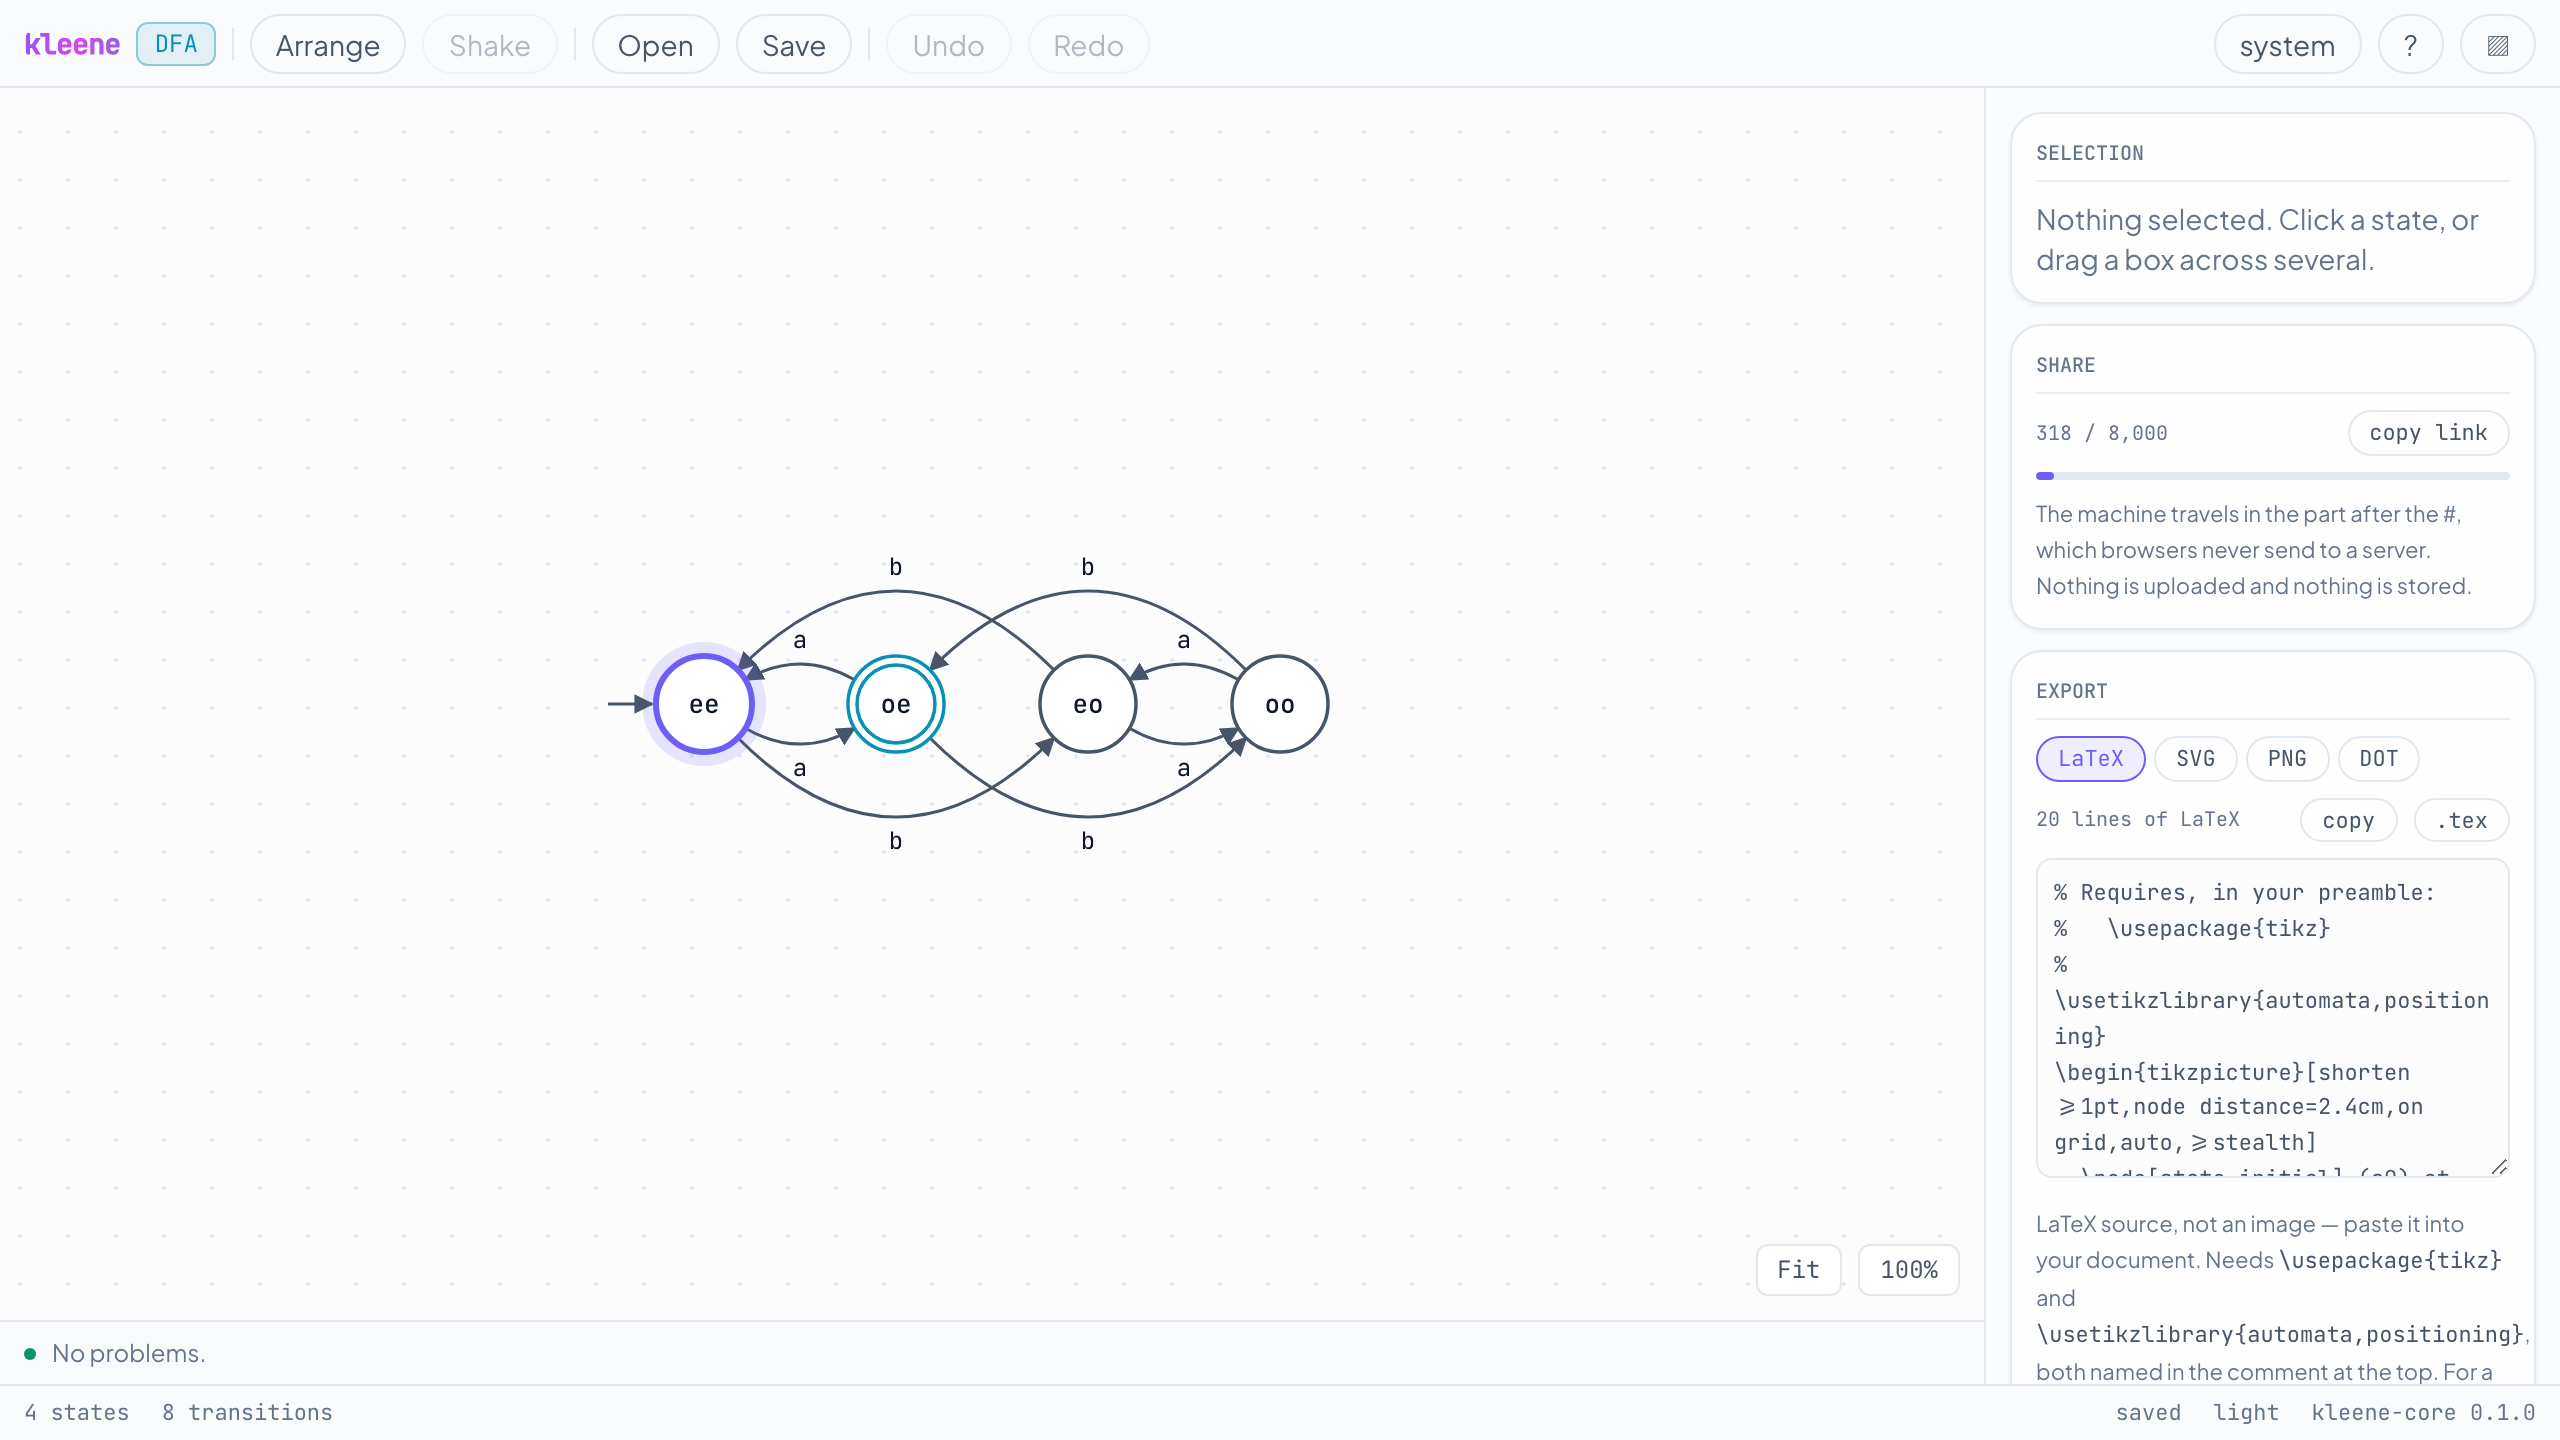
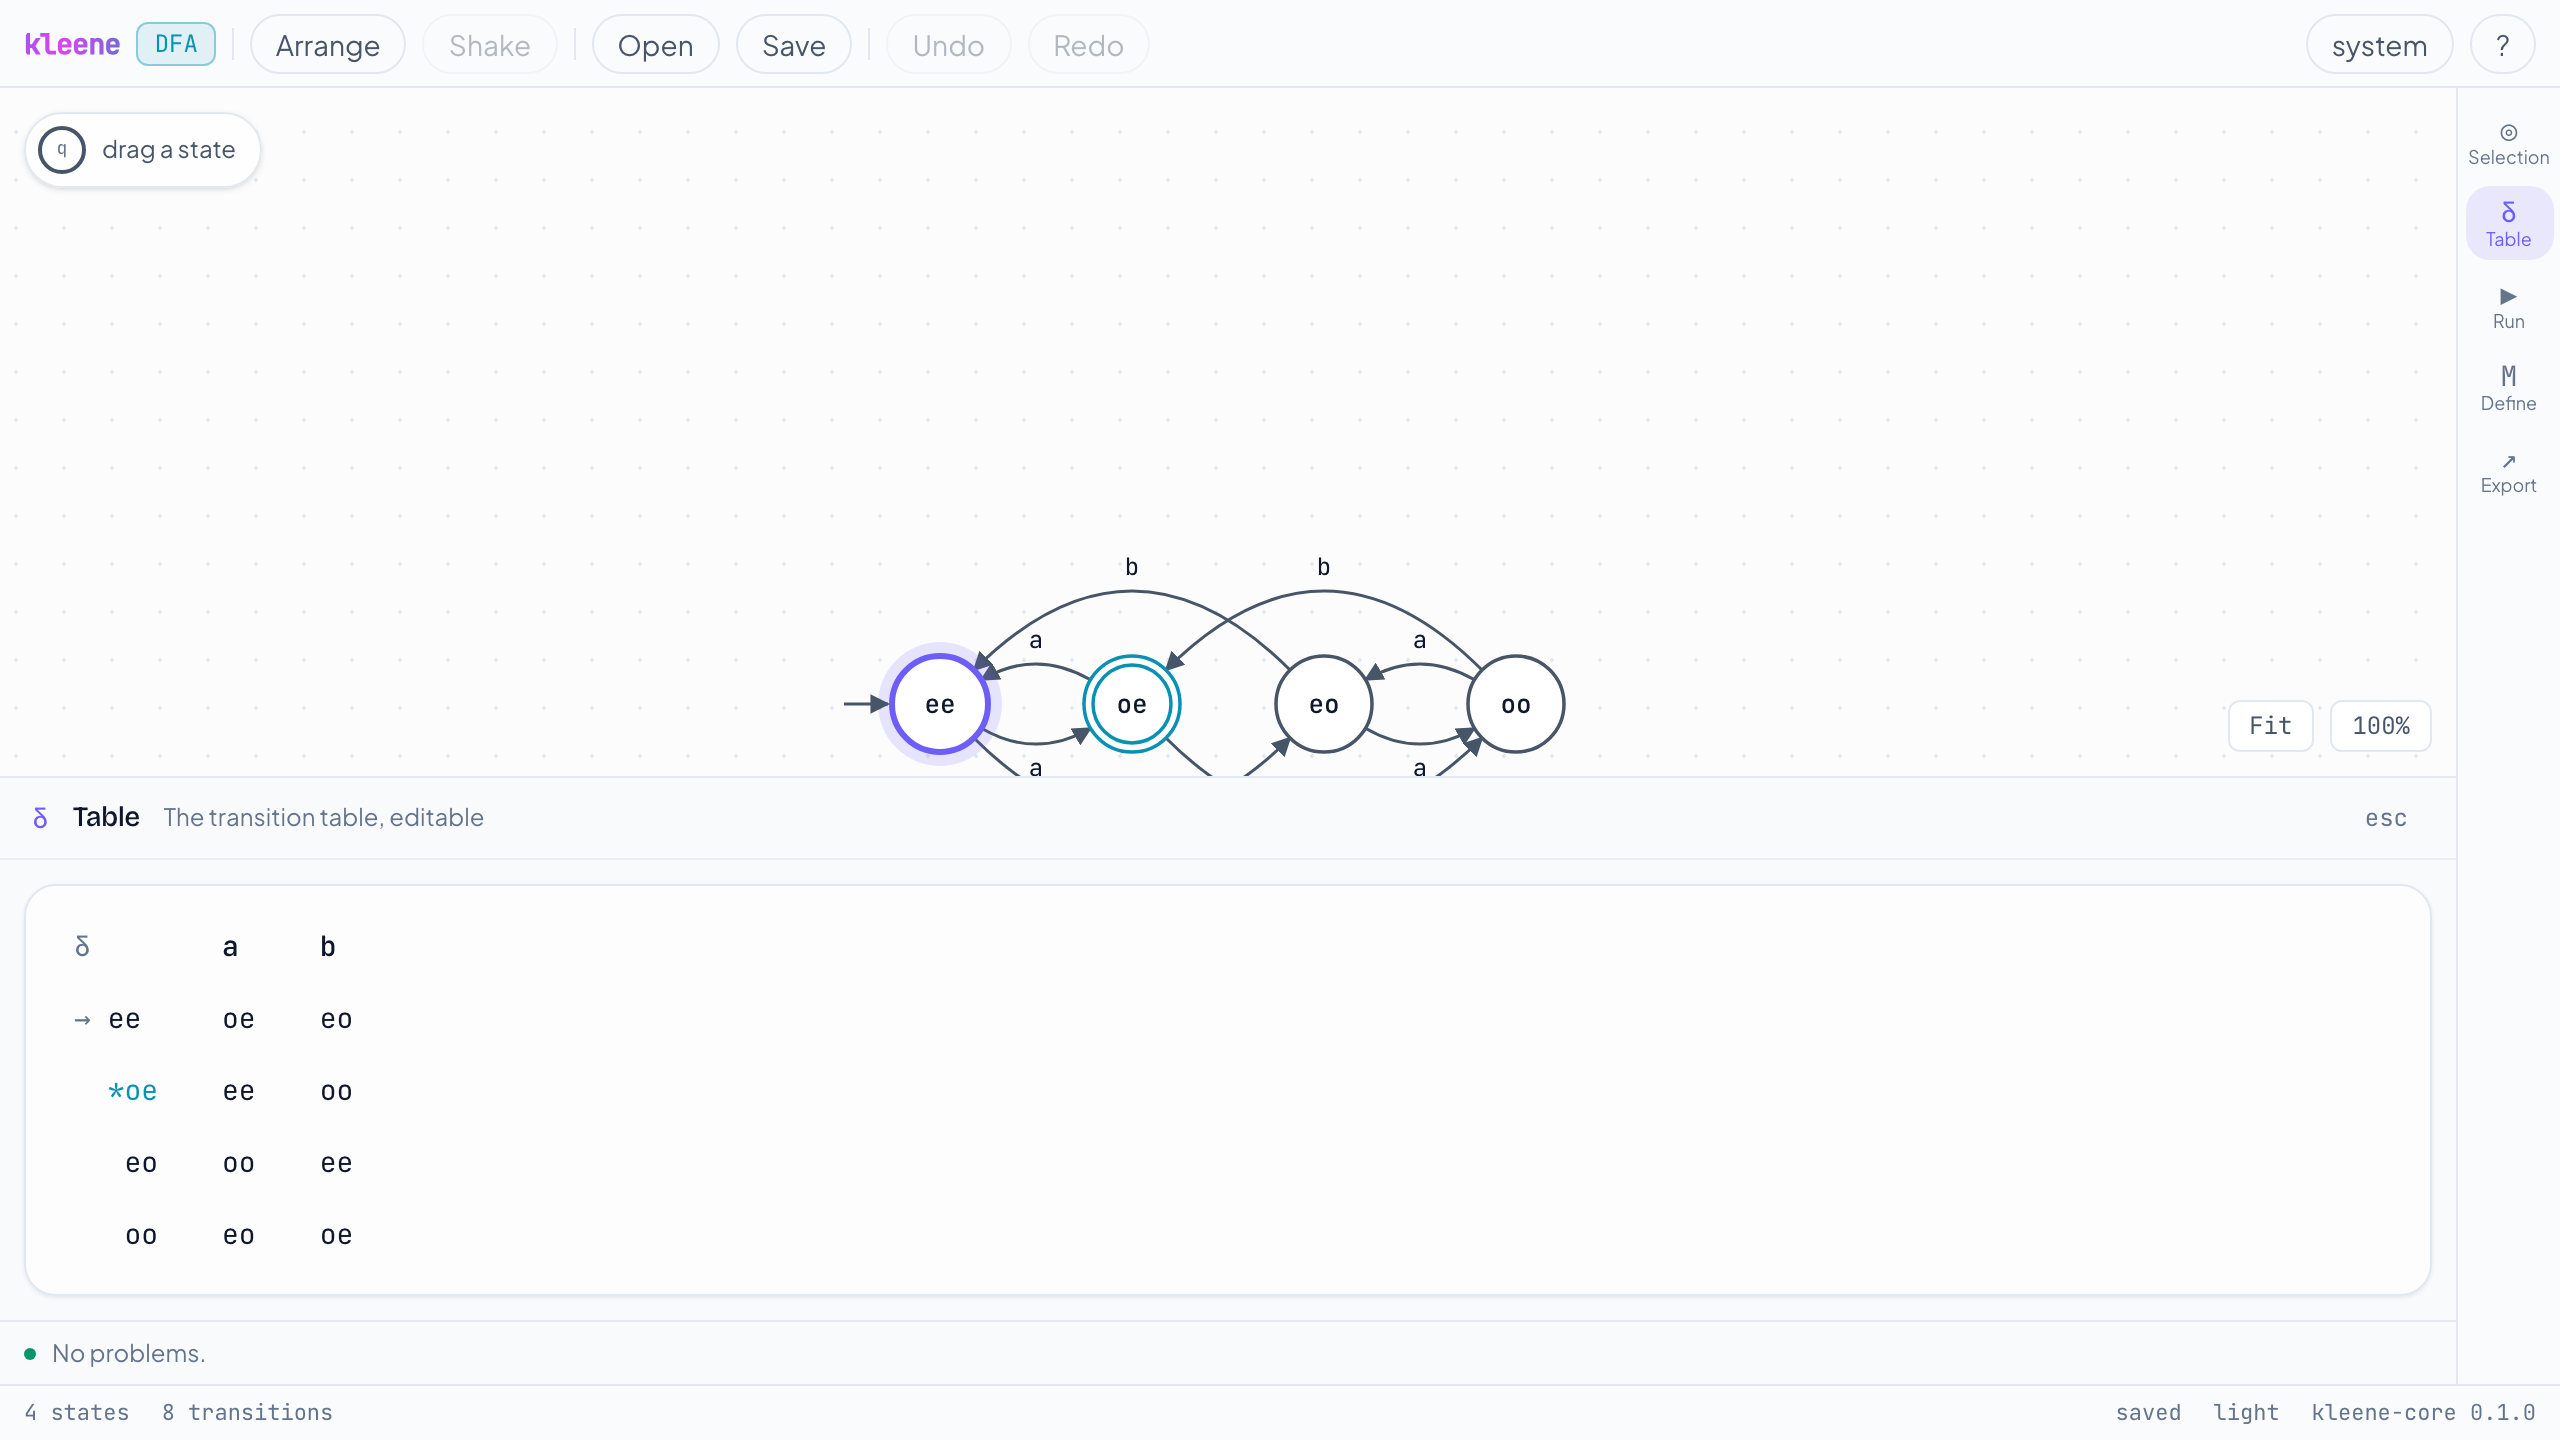
Reshoot the editor, now that it looks different
The README's editor screenshot showed the panel column this change
removed — which is the failure the script was written to prevent, so it was
one command away from being fixed.

Shot with the transition table open rather than on a bare canvas. The
editor's argument is that the canvas keeps the room and the panels arrive
when they are asked for, and a picture of an empty canvas can only make
half of that.

diff --git a/README.md b/README.md
@@ -35,7 +35,7 @@ underneath says what the round just did and why. Every one of those sentences wa
 Rust, beside the line of the algorithm that produced it.
 
 <p align="center">
-  <img src="docs/media/editor.png" alt="The Kleene editor: a four-state DFA on a canvas, with the share and TikZ export panels open beside it" width="720">
+  <img src="docs/media/editor.png" alt="The Kleene editor: a four-state DFA on a full-width canvas, with the transition table open along the bottom edge" width="720">
 </p>
 
 See the [phase plans](docs/plan/README.md) for what is being built and in what order,
